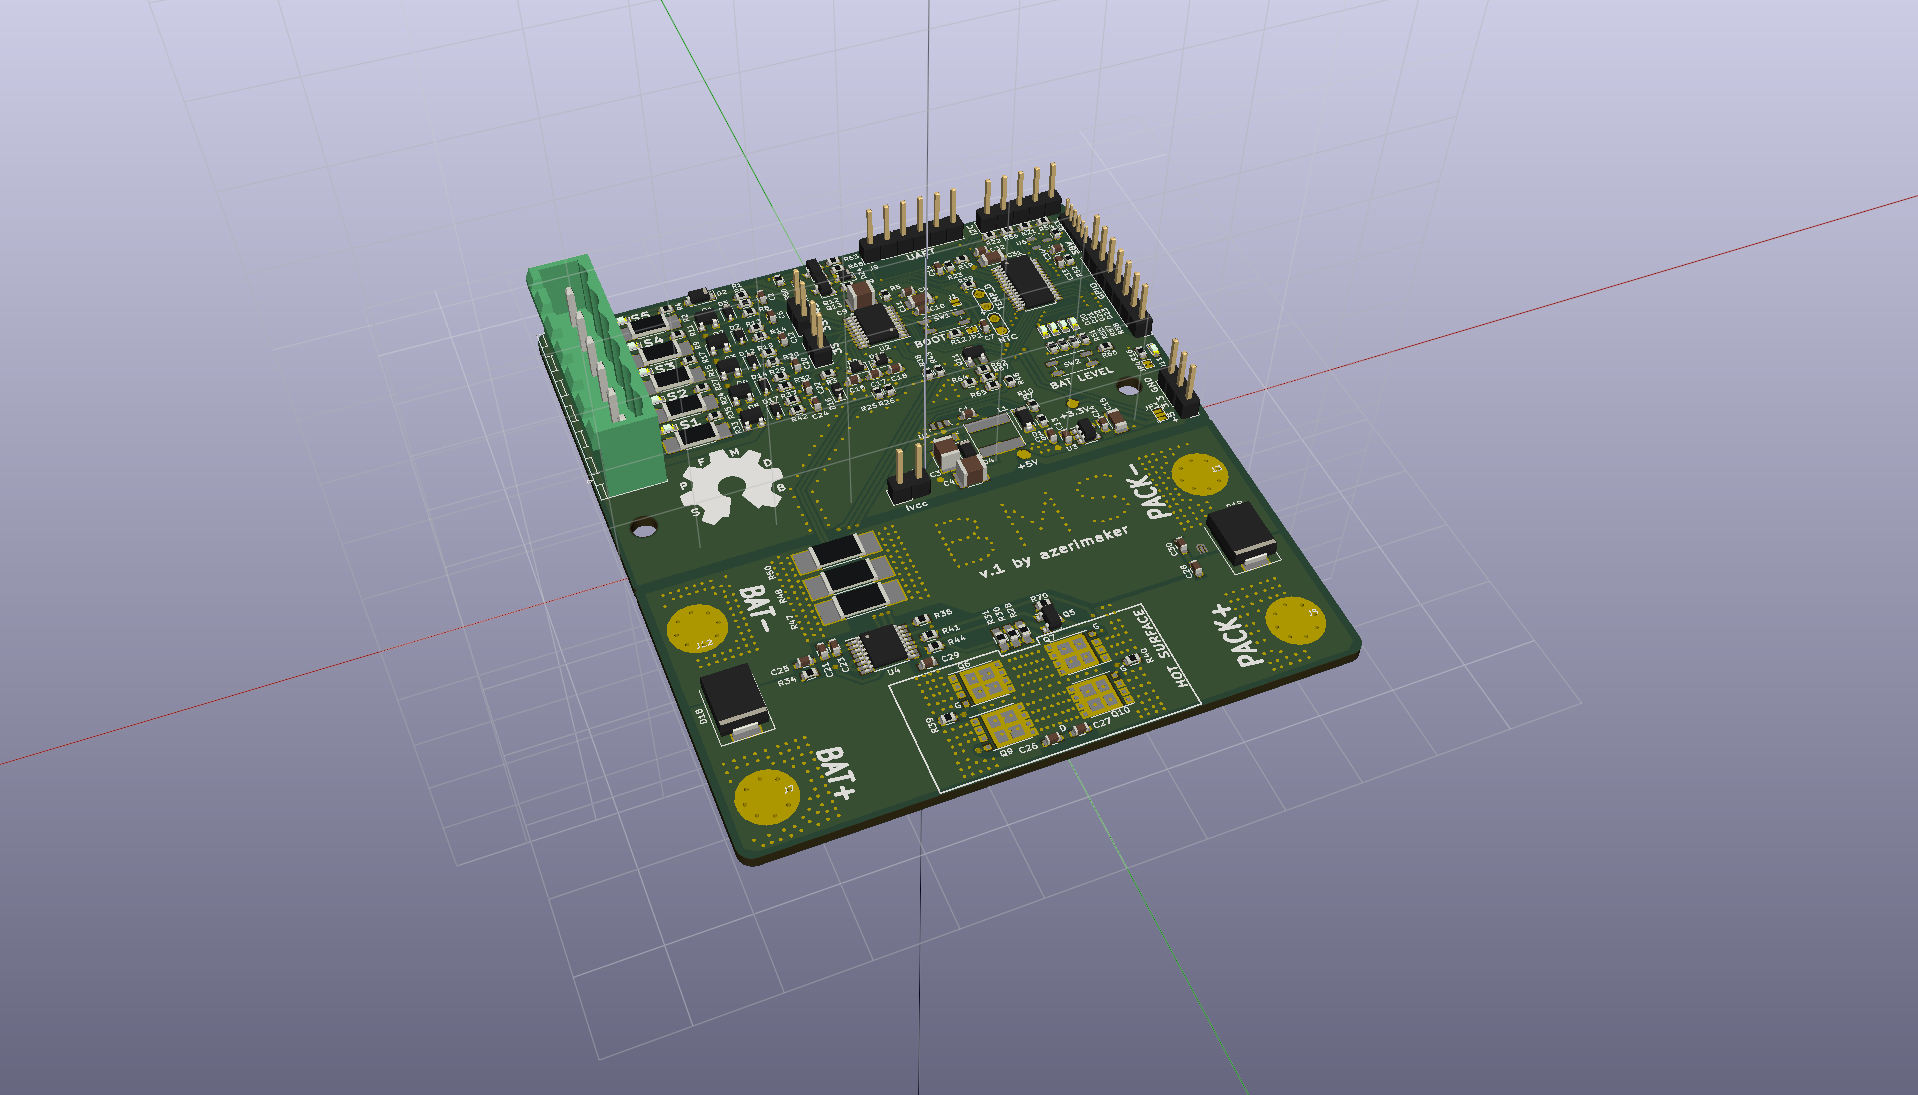
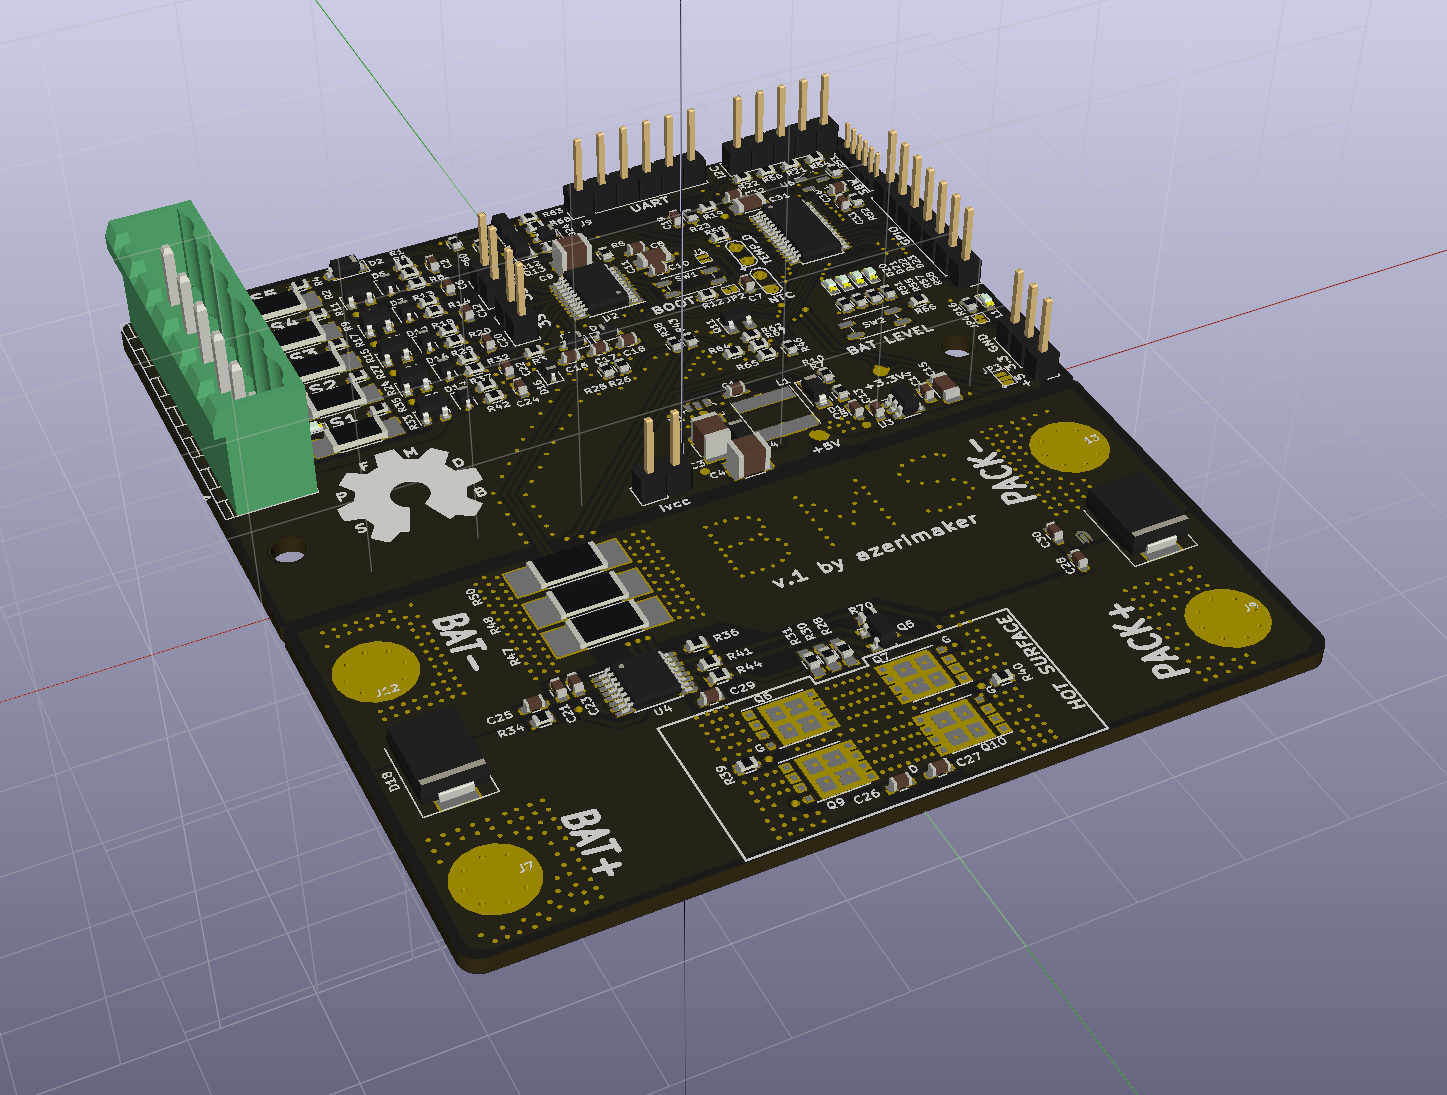
BMS 3D render added

diff --git a/README.md b/README.md
@@ -1,4 +1,4 @@
-# BMS_3-5S
+# BMS 3-5S
 3-5S Battery Management System based on TI bq76920 IC and MSP430 uC. 
 
 ![BMS_v1 PCB Render](/BMS_Docs/bms_v1.png )
